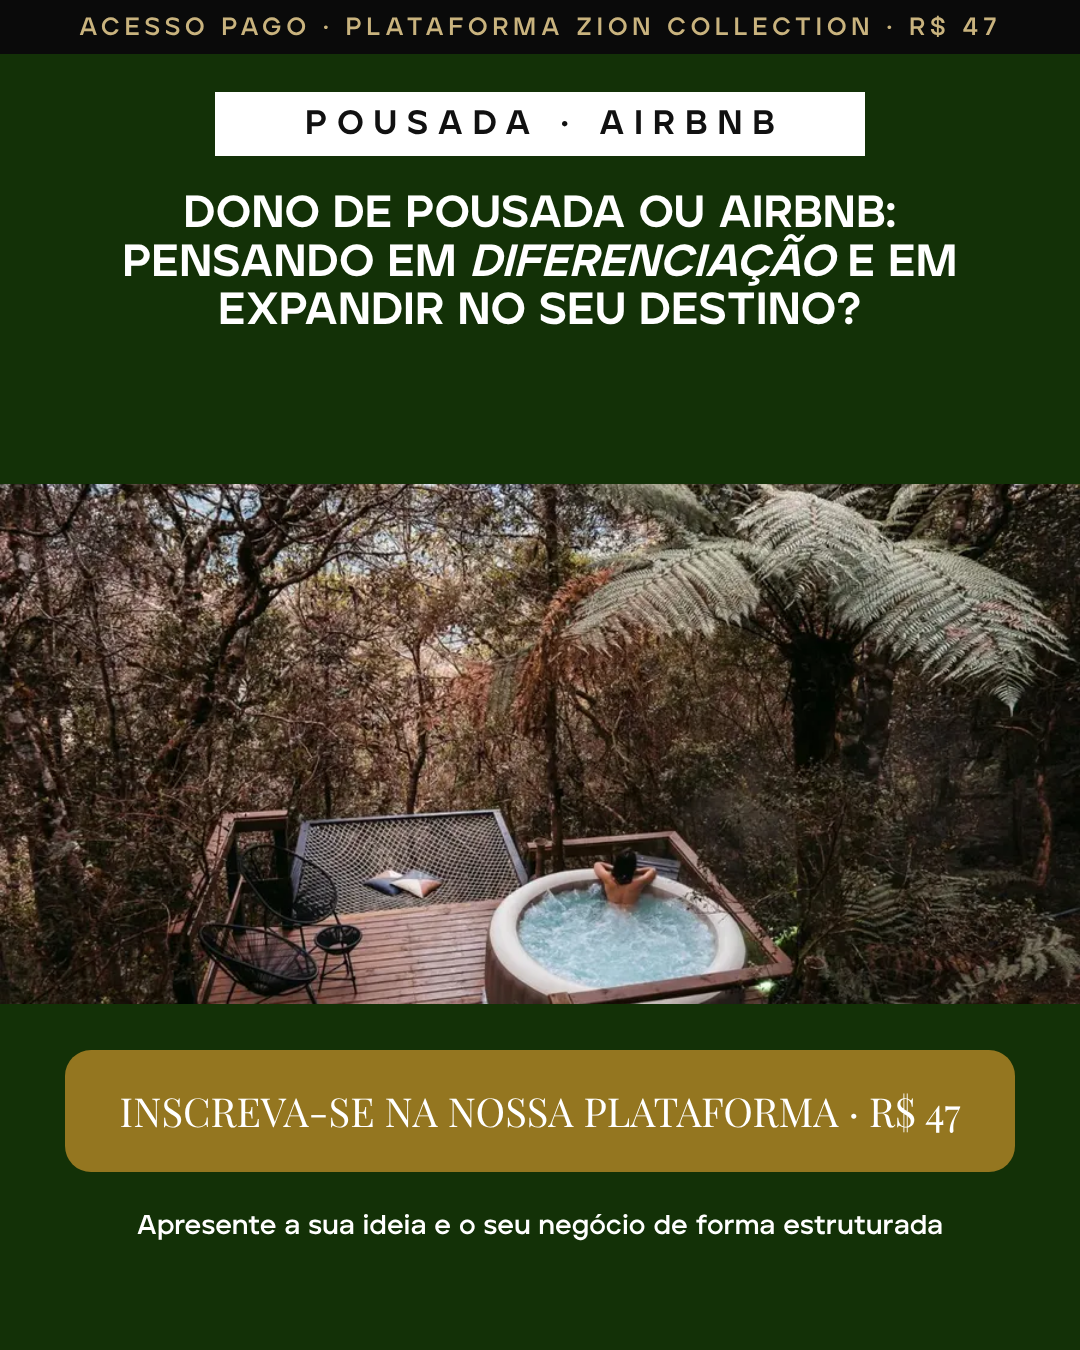
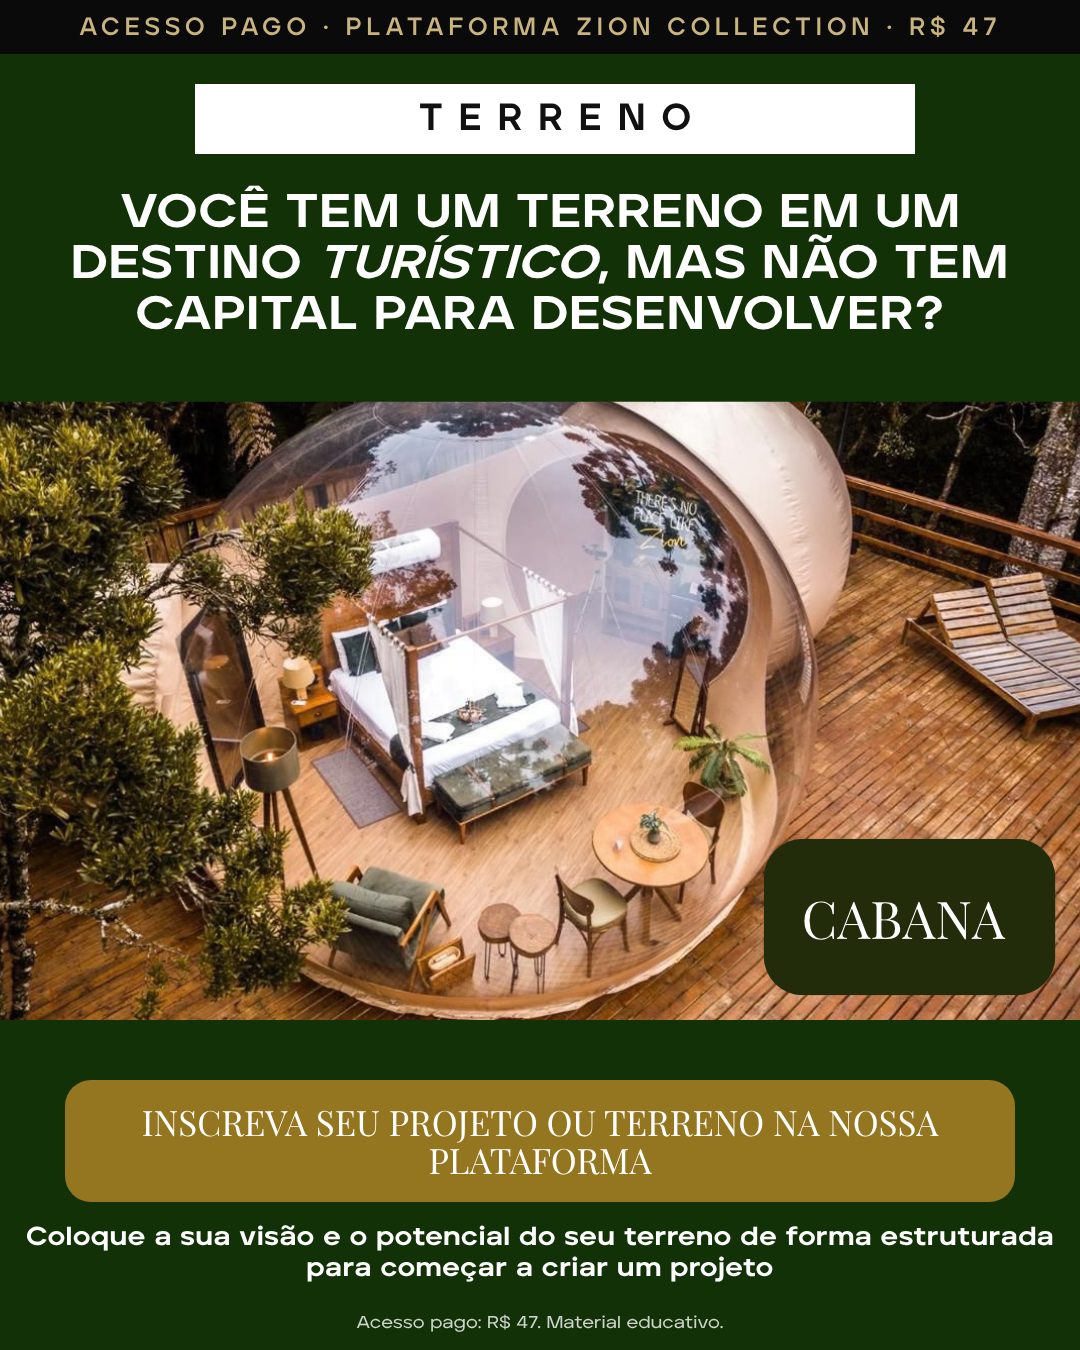
Carrossel de pousada abre com o cartão da bolha (mesmo cartão 1 do terreno)
Claude-Session: https://claude.ai/code/session_01BzUk5bYdjCT6eSVqUG9zKZ

diff --git a/producao/catalogo/TESTE_4_CAMPANHAS_ZC47.md b/producao/catalogo/TESTE_4_CAMPANHAS_ZC47.md
@@ -159,3 +159,6 @@ Pendências antes de ligar (dependem de Bruno no Meta): validar os dois formulá
 Frase acrescentada: "Por meio da nossa plataforma, você poderá apresentar o seu terreno, o seu projeto ou a sua visão à equipe Zion, de forma estruturada. Isso abre a possibilidade de parcerias e investimentos no seu terreno ou empreendimento*." (pousada: "o seu negócio, o seu terreno de expansão ou a sua visão"). Nota: "*Contato, parceria e investimento sujeitos à análise e à agenda. Não são garantidos."
 Novos criativos (o Meta não edita criativo, cria um novo): C3-A `1417382006855324` (anúncio `120250606477690016`), C3-B `1833781987860428` (anúncio `120250606583390016`), C4 `1507212061318804` (anúncio `120250606981070016`).
 Redação de Bruno "você tem acesso à equipe Zion" foi escrita como "poderá apresentar à equipe Zion" + asterisco, para não soar como garantia de reunião.
+
+### Regra de Bruno (27/11): o carrossel de pousada/Airbnb sempre abre com o cartão da bolha
+O primeiro cartão do anúncio de pousada `120250606981070016` passou a ser o MESMO cartão 1 do carrossel de terrenos (`zc47-card-1.png`, bolha). Novo criativo `1795962314851759`. O cartão persona antigo ("Dono de pousada ou Airbnb: pensando em diferenciação...") ficou fora do anúncio e guardado em `docs/ads/zc47-carrossel/zc47v2-card-1-original-persona.png`; `zc47v2-card-1.png` agora é igual ao `zc47-card-1.png`. Carrossel segue com 7 cartões (bolha + V2 cartões 2 a 7). Ponto de atenção: o texto do cartão da bolha fala de "terreno" e "capital"; o título do cartão no Meta continua "Dono de pousada ou Airbnb". Tudo PAUSADO.
